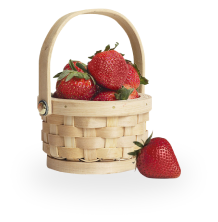
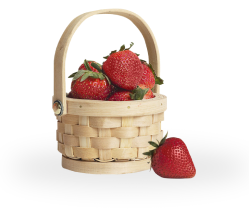
hero-done
1)esktop
2)fav
3)img add

Changed region(s): [[0.1651, 0.0279, 0.8532, 0.8372]]

diff --git a/src/css/hero.css b/src/css/hero.css
@@ -31,14 +31,13 @@
   background-position: 10px 55px, 100% 0;
 
   background-repeat: no-repeat;
-  outline: 1px solid white;
 }
 
 @media only screen and (min-width: 768px) {
   .hero-section .container {
     background-image: url(../img/hero/banana_tab@1x.png),
       url(../img/hero/strawberry_tab@1x.png);
-    background-position: 12px 86px, 98% -26px;
+    background-position: 12px 86px, 98% -22px;
     align-items: center;
     flex-direction: row;
     flex-wrap: wrap;
@@ -56,7 +55,7 @@
     padding: 0 62px;
     background-image: url(../img/hero/banana_@1x.png),
       url(../img/hero/strawberry_@1x.png);
-    background-position: 18% 120px, 83% -26px;
+    background-position: 18% 120px, 83% -20px;
   }
 }
 
@@ -178,6 +177,9 @@
   text-transform: uppercase;
   text-shadow: 0px 4px 70px rgba(0, 0, 0, 0.1);
 }
+.hero-right .hero-subtitle {
+  max-width: 163px;
+}
 /**
   |============================
   | center
@@ -259,6 +261,10 @@
     bottom: -18px;
     right: 38%;
   }
+}
+.btn-link:hover,
+.btn-link:focus {
+  color: var(--color-green);
 }
 /**
   |============================

diff --git a/src/partials/hero.html b/src/partials/hero.html
@@ -11,8 +11,8 @@
         a gift for a loved one, Fresh Harvest Box has got you covered.
       </p>
       <div class="wraper-left">
-        <span class="text">Fruit</span>
-        <img src="./img/hero/group.png" alt="watermelon" height="172" />
+        <h2 class="text">Fruit</h2>
+        <img src="./img/hero/img-1_desk@1x.png" alt="watermelon" height="172" />
         <p class="hero-subtitle">
           Refreshing and juicy, watermelon is the perfect summer treat and a
           great source of hydration
@@ -47,8 +47,8 @@
     </div>
     <div class="hero-right">
       <div class="wraper-right">
-        <span class="text">Fruit</span>
-        <img src="./img/hero/group-1.png" alt="strawberyy" />
+        <h2 class="text">Fruit</h2>
+        <img src="./img/hero/img-2_desk@1x.png" alt="strawberyy" />
         <p class="hero-subtitle">
           Sweet and juicy, strawberries are packed with vitamin C and
           antioxidants, making them a delicious and healthy snack

diff --git a/src/index.html b/src/index.html
@@ -2,9 +2,10 @@
 <html lang="en">
   <head>
     <meta charset="UTF-8" />
-    <link rel="icon" type="image/svg+xml" href="" />
+    <link rel="icon" sizes="32x32" href="./public/favv.svg" />
     <meta name="viewport" content="width=device-width, initial-scale=1.0" />
-    <title>Vanilla App Template</title>
+    <title>Fruits box</title>
+    <!-- fav -->
 
     <link rel="stylesheet" href="./css/styles.css" />
   </head>
